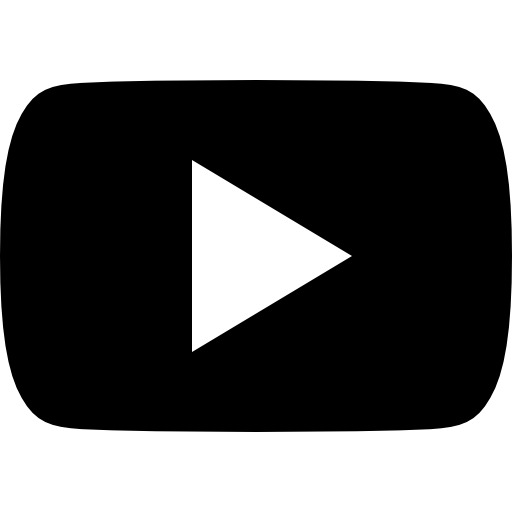
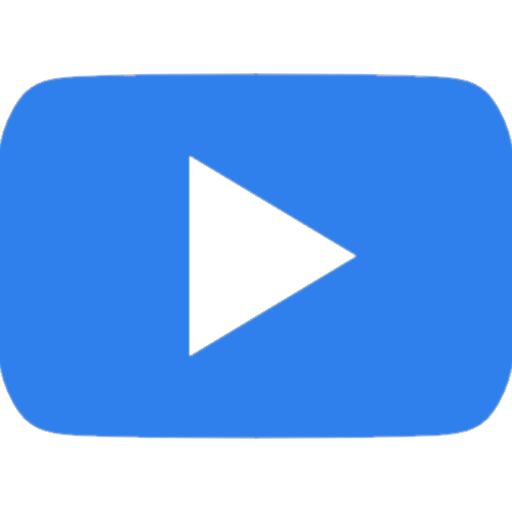
feat: filter-by-key-word pipe, angular-material

diff --git a/src/app/components/search-result-item/search-result-item.component.html b/src/app/components/search-result-item/search-result-item.component.html
@@ -1,15 +1,11 @@
 <div *ngIf="item" class="result-item" [appDateStatus]="item.snippet.publishedAt">
-    <img src="{{item.snippet.thumbnails.default.url}}" alt="{{item.snippet.title}}" class="logo">
+    <img src="{{ item.snippet.thumbnails.default.url }}" alt="{{ item.snippet.title }}" class="logo">
     <div class="statistics">
-        <app-statistic imageUrl="../../../assets/eye.png" description="View count"
-            count="{{item.statistics.viewCount}}"></app-statistic>
-        <app-statistic imageUrl="../../../assets/heart.png" description="Like count"
-            count="{{item.statistics.likeCount}}"></app-statistic>
-        <app-statistic imageUrl="../../../assets/dislike.png" description="Dislike count"
-            count="{{item.statistics.dislikeCount}}"></app-statistic>
-        <app-statistic imageUrl="../../../assets/comment.png" description="Comment count"
-            count="{{item.statistics.commentCount}}"></app-statistic>
+        <app-statistic iconType="visibility" count="{{ item.statistics.viewCount }}"></app-statistic>
+        <app-statistic iconType="thumb_up" count="{{ item.statistics.likeCount }}"></app-statistic>
+        <app-statistic iconType="thumb_down" count="{{ item.statistics.dislikeCount }}"></app-statistic>
+        <app-statistic iconType="comment" count="{{ item.statistics.commentCount }}"></app-statistic>
     </div>
-    <h4 class="title">{{item.snippet.title}}</h4>
+    <h4 class="title">{{ item.snippet.title }}</h4>
     <a routerLink="/" class="more-button">more...</a>
 </div>

diff --git a/src/app/components/main-page/main-page.component.ts b/src/app/components/main-page/main-page.component.ts
@@ -1,7 +1,8 @@
 import { Component, OnInit, EventEmitter } from '@angular/core';
 
-import { ResponseItem } from 'src/app/models/youtube/response-item.model';
+import { IResponseItem } from 'src/app/models/youtube/response-item.model';
 import { SearchService } from '../../services/search.service';
+import { THEME_COLOR } from 'src/app/constants/common';
 
 @Component({
   selector: 'app-main-page',
@@ -9,13 +10,29 @@ import { SearchService } from '../../services/search.service';
   styleUrls: ['./main-page.component.scss']
 })
 export class MainPageComponent implements OnInit {
-  public searchItems: ResponseItem[];
+  public searchItems: IResponseItem[];
+  public loading: boolean = false;
+  public filterWords: string = '';
+  public themeColor: string = THEME_COLOR;
 
   constructor(private searchService: SearchService) { }
 
-  ngOnInit(): void { }
+  public ngOnInit(): void { }
 
-  fetchData(searchText: string): void {
-    this.searchService.getItems(searchText).subscribe(items => this.searchItems = items);
+  public fetchData(searchText: string): void {
+    this.loading = true;
+    this.searchService
+      .getItems(searchText)
+      .subscribe((items: IResponseItem[]) => {
+        this.searchItems = items;
+        this.loading = false;
+      },
+        () => {
+          this.loading = false;
+        });
+  }
+
+  public applyFilter(filterWords: string): void {
+    this.filterWords = filterWords;
   }
 }

diff --git a/src/app/app.module.ts b/src/app/app.module.ts
@@ -1,6 +1,8 @@
 import { BrowserModule } from '@angular/platform-browser';
 import { NgModule } from '@angular/core';
 import { HttpClientModule } from '@angular/common/http';
+import { MatIconModule } from '@angular/material/icon';
+import { MatProgressSpinnerModule } from '@angular/material/progress-spinner';
 
 import { AppRoutingModule } from './app-routing.module';
 import { AppComponent } from './app.component';
@@ -12,6 +14,7 @@ import { StatisticComponent } from './components/statistic/statistic.component';
 import { MainPageComponent } from './components/main-page/main-page.component';
 import { DateStatusDirective } from './directives/date-status.directive';
 import { BrowserAnimationsModule } from '@angular/platform-browser/animations';
+import { FilterByKeyWordPipe } from './pipes/filter-by-key-word.pipe';
 
 @NgModule({
   declarations: [
@@ -23,8 +26,16 @@ import { BrowserAnimationsModule } from '@angular/platform-browser/animations';
     StatisticComponent,
     MainPageComponent,
     DateStatusDirective,
+    FilterByKeyWordPipe,
   ],
-  imports: [BrowserModule, AppRoutingModule, HttpClientModule, BrowserAnimationsModule],
+  imports: [
+    BrowserModule,
+    AppRoutingModule,
+    HttpClientModule,
+    BrowserAnimationsModule,
+    MatIconModule,
+    MatProgressSpinnerModule,
+  ],
   providers: [],
   bootstrap: [AppComponent],
 })

diff --git a/src/app/components/header/header.component.html b/src/app/components/header/header.component.html
@@ -4,14 +4,21 @@
             <img src="../../../assets/youtube.png" alt="YouTube" class="logo">
             <input #searchText type="text" class="input">
             <button type="button" (click)="search(searchText.value)" class="search-button">search</button>
-            <img src="../../../assets/settings.png" alt="settings" (click)="showSettings = !showSettings"
-                class="settings-button">
+            <mat-icon (click)="showSettings = !showSettings" class="settings-button" aria-hidden="false"
+                aria-label="Settings">settings</mat-icon>
         </div>
         <app-user-login [userName]="userName"></app-user-login>
     </div>
     <div [class]="{ sort: true, showSettings: showSettings }">
         <span class="label">Sorting by: </span>
-        <span *ngFor="let button of buttons" class="sort-button">{{button}}</span>
-        <input type="text" class="sort-input">
+
+        <span *ngFor="let button of buttons" class="sort-button">
+            {{ button }}
+            <mat-icon> format_list_numbered </mat-icon>
+            <mat-icon> format_list_numbered_rtl </mat-icon>
+        </span>
+
+        <span>by word or sentence</span>
+        <input type="text" class="filter-input" #filterInput (input)="onFilterInput(filterInput.value)">
     </div>
 </header>

diff --git a/src/app/services/search.service.ts b/src/app/services/search.service.ts
@@ -1,10 +1,10 @@
 import { Injectable } from '@angular/core';
 import { HttpClient } from '@angular/common/http';
 import { Observable } from 'rxjs';
-import { map } from 'rxjs/operators';
+import { map, delay } from 'rxjs/operators';
 
-import { YoutubeResponse } from '../models/youtube-response.model';
-import { ResponseItem } from '../models/youtube/response-item.model';
+import { IYouTubeResponse } from '../models/youtube-response.model';
+import { IResponseItem } from '../models/youtube/response-item.model';
 
 @Injectable({
   providedIn: 'root',
@@ -12,9 +12,10 @@ import { ResponseItem } from '../models/youtube/response-item.model';
 export class SearchService {
   constructor(private http: HttpClient) { }
 
-  public getItems(searchText: string): Observable<ResponseItem[]> {
+  public getItems(searchText: string): Observable<IResponseItem[]> {
     return this.http.get('assets/response.json').pipe(
-      map((response: YoutubeResponse) => response.items)
+      delay(2000),
+      map((response: IYouTubeResponse) => response.items)
     );
   }
 }

diff --git a/src/app/components/header/header.component.ts b/src/app/components/header/header.component.ts
@@ -9,6 +9,7 @@ import { SORT_BUTTONS, USER_NAME } from 'src/app/constants/common';
 })
 export class HeaderComponent implements OnInit {
   @Output() onSearch = new EventEmitter<string>();
+  @Output() onFilter = new EventEmitter<string>();
   public userName: string = USER_NAME;
   public buttons: string[] = SORT_BUTTONS;
   public showSettings: boolean = false;
@@ -19,5 +20,9 @@ export class HeaderComponent implements OnInit {
 
   public search(searchText: string): void {
     this.onSearch.emit(searchText);
+  }
+
+  public onFilterInput(filterValue: string): void {
+    this.onFilter.emit(filterValue);
   }
 }

diff --git a/src/app/components/search-result-list/search-result-list.component.ts b/src/app/components/search-result-list/search-result-list.component.ts
@@ -1,6 +1,6 @@
 import { Component, OnInit, Input } from '@angular/core';
 
-import { ResponseItem } from 'src/app/models/youtube/response-item.model';
+import { IResponseItem } from 'src/app/models/youtube/response-item.model';
 
 @Component({
   selector: 'app-search-result-list',
@@ -8,7 +8,7 @@ import { ResponseItem } from 'src/app/models/youtube/response-item.model';
   styleUrls: ['./search-result-list.component.scss'],
 })
 export class SearchResultListComponent implements OnInit {
-  @Input('items') searchItems: ResponseItem[];
+  @Input('items') searchItems: IResponseItem[];
 
   constructor() { }
 

diff --git a/src/app/components/search-result-item/search-result-item.component.ts b/src/app/components/search-result-item/search-result-item.component.ts
@@ -1,6 +1,6 @@
 import { Component, OnInit, Input } from '@angular/core';
 
-import { ResponseItem } from 'src/app/models/youtube/response-item.model';
+import { IResponseItem } from 'src/app/models/youtube/response-item.model';
 
 @Component({
   selector: 'app-search-result-item',
@@ -8,7 +8,7 @@ import { ResponseItem } from 'src/app/models/youtube/response-item.model';
   styleUrls: ['./search-result-item.component.scss'],
 })
 export class SearchResultItemComponent implements OnInit {
-  @Input() public item: ResponseItem;
+  @Input() public item: IResponseItem;
 
   constructor() { }
 

diff --git a/src/app/pipes/filter-by-key-word.pipe.ts b/src/app/pipes/filter-by-key-word.pipe.ts
@@ -1,0 +1,15 @@
+import { Pipe, PipeTransform } from '@angular/core';
+import { IResponseItem } from '../models/youtube/response-item.model';
+
+@Pipe({
+  name: 'filterByKeyWord'
+})
+export class FilterByKeyWordPipe implements PipeTransform {
+
+  transform(responseItems: IResponseItem[], filterWord: string): IResponseItem[] {
+    const filter = new RegExp(filterWord, 'i');
+    return responseItems.filter(({ snippet: { title } }) => filter.test(title));
+    // return responseItems.filter(({ snippet: { title } }) => title.includes(filterWord));
+  }
+
+}

diff --git a/src/app/components/header/header.component.scss b/src/app/components/header/header.component.scss
@@ -11,6 +11,7 @@ header {
   justify-content: space-between;
   align-items: center;
 }
+
 // search input
 .search-input {
   margin: auto;
@@ -21,14 +22,25 @@ header {
   align-items: center;
 }
 
+.search-button {
+  background-color: var(--color);
+  color: #fff;
+  border-radius: 5px;
+}
+
 .logo {
   height: 4em;
   padding-right: 10px;
 }
 
 .settings-button {
-  height: 1em;
   padding-left: 10px;
+  cursor: pointer;
+  color: var(--color);
+}
+
+.search-button {
+  box-shadow: 2px 0px 2px var(--color);
 }
 
 .input {

diff --git a/src/app/components/main-page/main-page.component.html b/src/app/components/main-page/main-page.component.html
@@ -1,4 +1,7 @@
 <div class="content" role="main">
-    <app-header (onSearch)="fetchData($event)"></app-header>
-    <app-search-result-list [items]="searchItems"></app-search-result-list>
+    <app-header (onSearch)="fetchData($event)" (onFilter)="applyFilter($event)"></app-header>
+    <mat-spinner *ngIf="loading" color="#2f80ec"></mat-spinner>
+    <app-search-result-list *ngIf="searchItems" [items]="searchItems | filterByKeyWord:filterWords">
+
+    </app-search-result-list>
 </div>

diff --git a/src/app/models/youtube-response.model.ts b/src/app/models/youtube-response.model.ts
@@ -1,9 +1,9 @@
-import { PageInfo } from './youtube/page-info.model';
-import { ResponseItem } from './youtube/response-item.model';
+import { IPageInfo } from './youtube/page-info.model';
+import { IResponseItem } from './youtube/response-item.model';
 
-export interface YoutubeResponse {
+export interface IYouTubeResponse {
   kind: string;
   etag: string;
-  pageInfo: PageInfo;
-  items: ResponseItem[];
+  pageInfo: IPageInfo;
+  items: IResponseItem[];
 }
